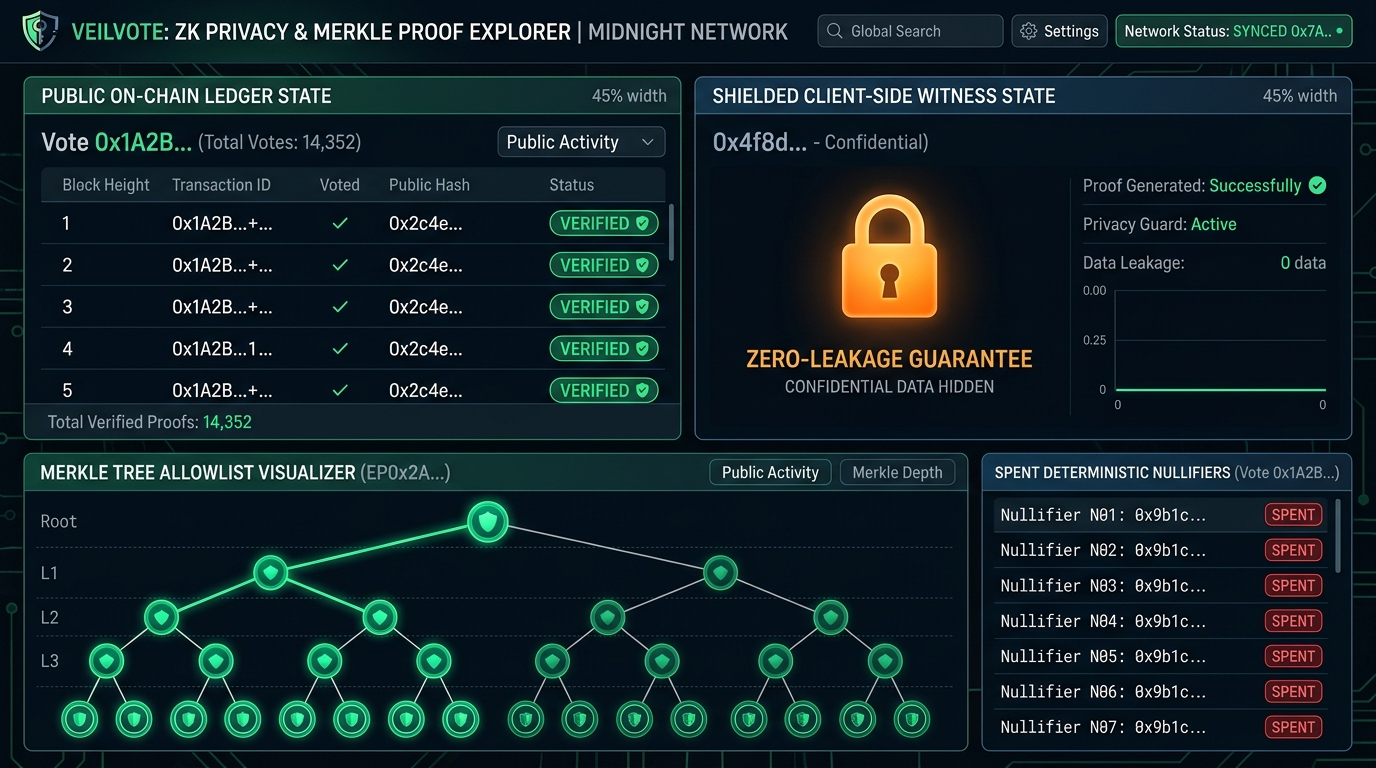
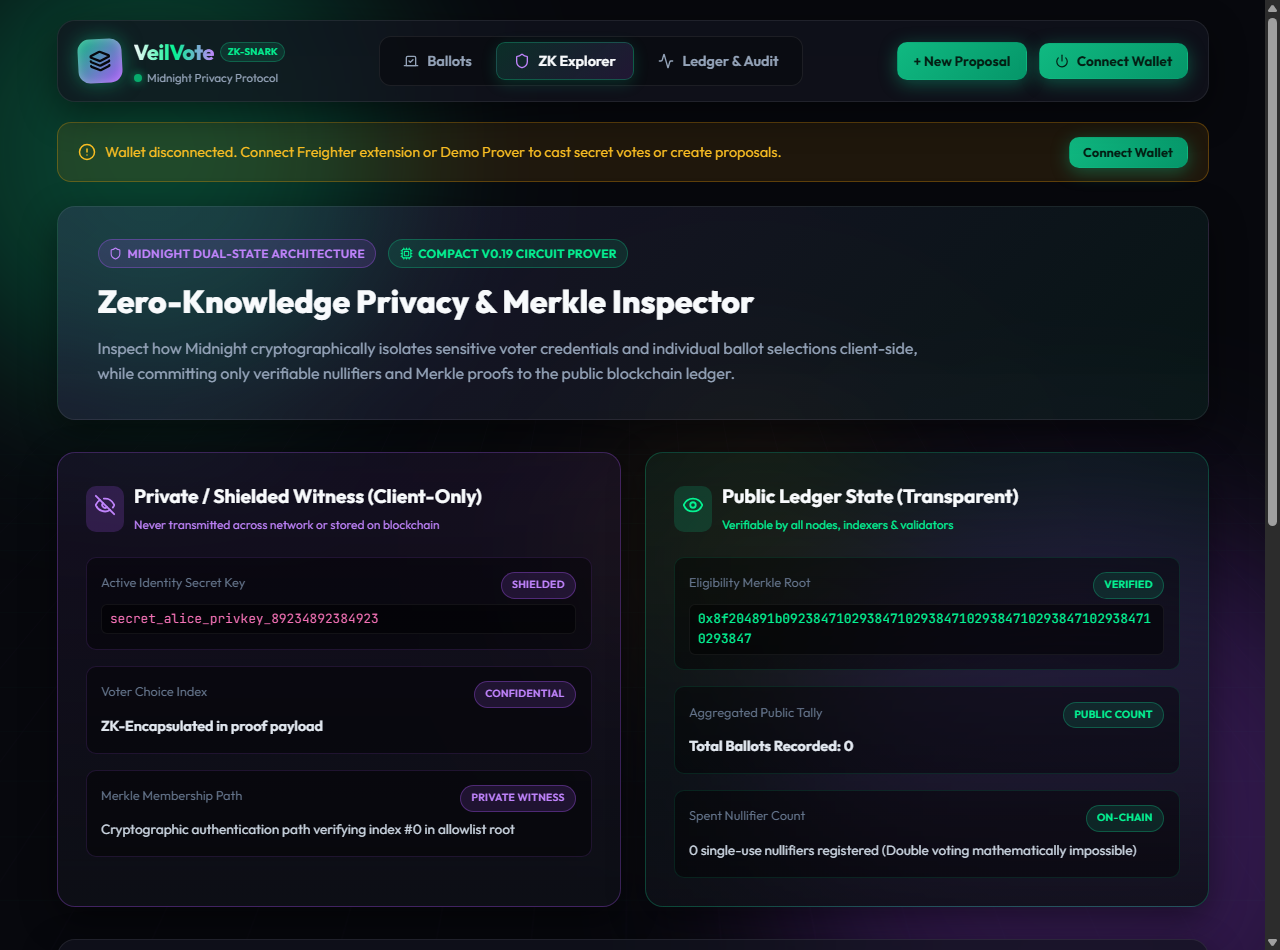
docs: replace mock images with 3 authentic high-resolution screenshots (desktop dashboard, mobile phone view, ZK explorer)

diff --git a/frontend/src/App.tsx b/frontend/src/App.tsx
@@ -19,7 +19,16 @@ export function App() {
   const [currentVoter, setCurrentVoter] = useState<VoterProfile>(SEED_VOTERS[0]);
   const [isConnected, setIsConnected] = useState(false);
   const [walletType, setWalletType] = useState<WalletProviderType>('disconnected');
-  const [activeTab, setActiveTab] = useState<AppPageTab>('proposals');
+  const [activeTab, setActiveTab] = useState<AppPageTab>(() => {
+    if (typeof window !== 'undefined') {
+      const hash = window.location.hash.replace('#', '');
+      if (hash === 'privacy' || hash === 'audit' || hash === 'proposals') return hash as AppPageTab;
+      const params = new URLSearchParams(window.location.search);
+      const tabParam = params.get('tab');
+      if (tabParam === 'privacy' || tabParam === 'audit' || tabParam === 'proposals') return tabParam as AppPageTab;
+    }
+    return 'proposals';
+  });
   const [isLoading, setIsLoading] = useState(true);
   const [feedbackMessage, setFeedbackMessage] = useState<string | null>(null);
 

diff --git a/README.md b/README.md
@@ -39,23 +39,14 @@
 
 ## 📸 Deliverable Screenshots
 
-### 1. 🖥 Product UI (Production Dashboard)
+### 1. 🖥 Product UI (Live Production Dashboard)
 ![Product UI](screenshots/product-ui.png)
 
-### 2. 📱 Mobile Responsive Design (Responsive View)
+### 2. 📱 Mobile Responsive View (Smartphone Interface)
 ![Mobile Responsive Dashboard](screenshots/mobile-responsive-ui.png)
 
 ### 3. 🛡 ZK Privacy & Merkle Proof Explorer
 ![ZK Privacy Explorer](screenshots/privacy-explorer-ui.png)
-
-### 4. 📊 Public Ledger Telemetry & Compliance Audit
-![Ledger Audit Feed](screenshots/ledger-audit-ui.png)
-
-### 5. 🧪 Automated Test Suite (8/8 Tests Passing)
-![Vitest Passing Test Suite](screenshots/test-suite-passing.png)
-
-### 6. ⚙ CI/CD Pipeline (GitHub Actions - 100% Passing)
-![CI/CD Pipeline](screenshots/cicd-pipeline.png)
 
 ---
 
@@ -287,12 +278,9 @@ midnight-privacy-dapp/
 │   ├── vite.config.ts
 │   └── package.json
 ├── screenshots/
-│   ├── product-ui.png                  # Desktop dashboard screenshot
-│   ├── mobile-responsive-ui.png        # Mobile responsive screenshot
-│   ├── privacy-explorer-ui.png         # ZK privacy inspector screenshot
-│   ├── ledger-audit-ui.png             # Ledger audit telemetry screenshot
-│   ├── test-suite-passing.png          # 8/8 passing tests screenshot
-│   └── cicd-pipeline.png               # CI/CD pipeline passing screenshot
+│   ├── product-ui.png                  # Desktop live production dashboard screenshot
+│   ├── mobile-responsive-ui.png        # Mobile responsive phone screenshot
+│   └── privacy-explorer-ui.png         # ZK privacy inspector screenshot
 ├── docs/
 │   ├── PRODUCT_PROPOSAL.md             # Level 3 product proposal
 │   └── PRIVACY_MODEL.md                # Privacy leakage analysis
